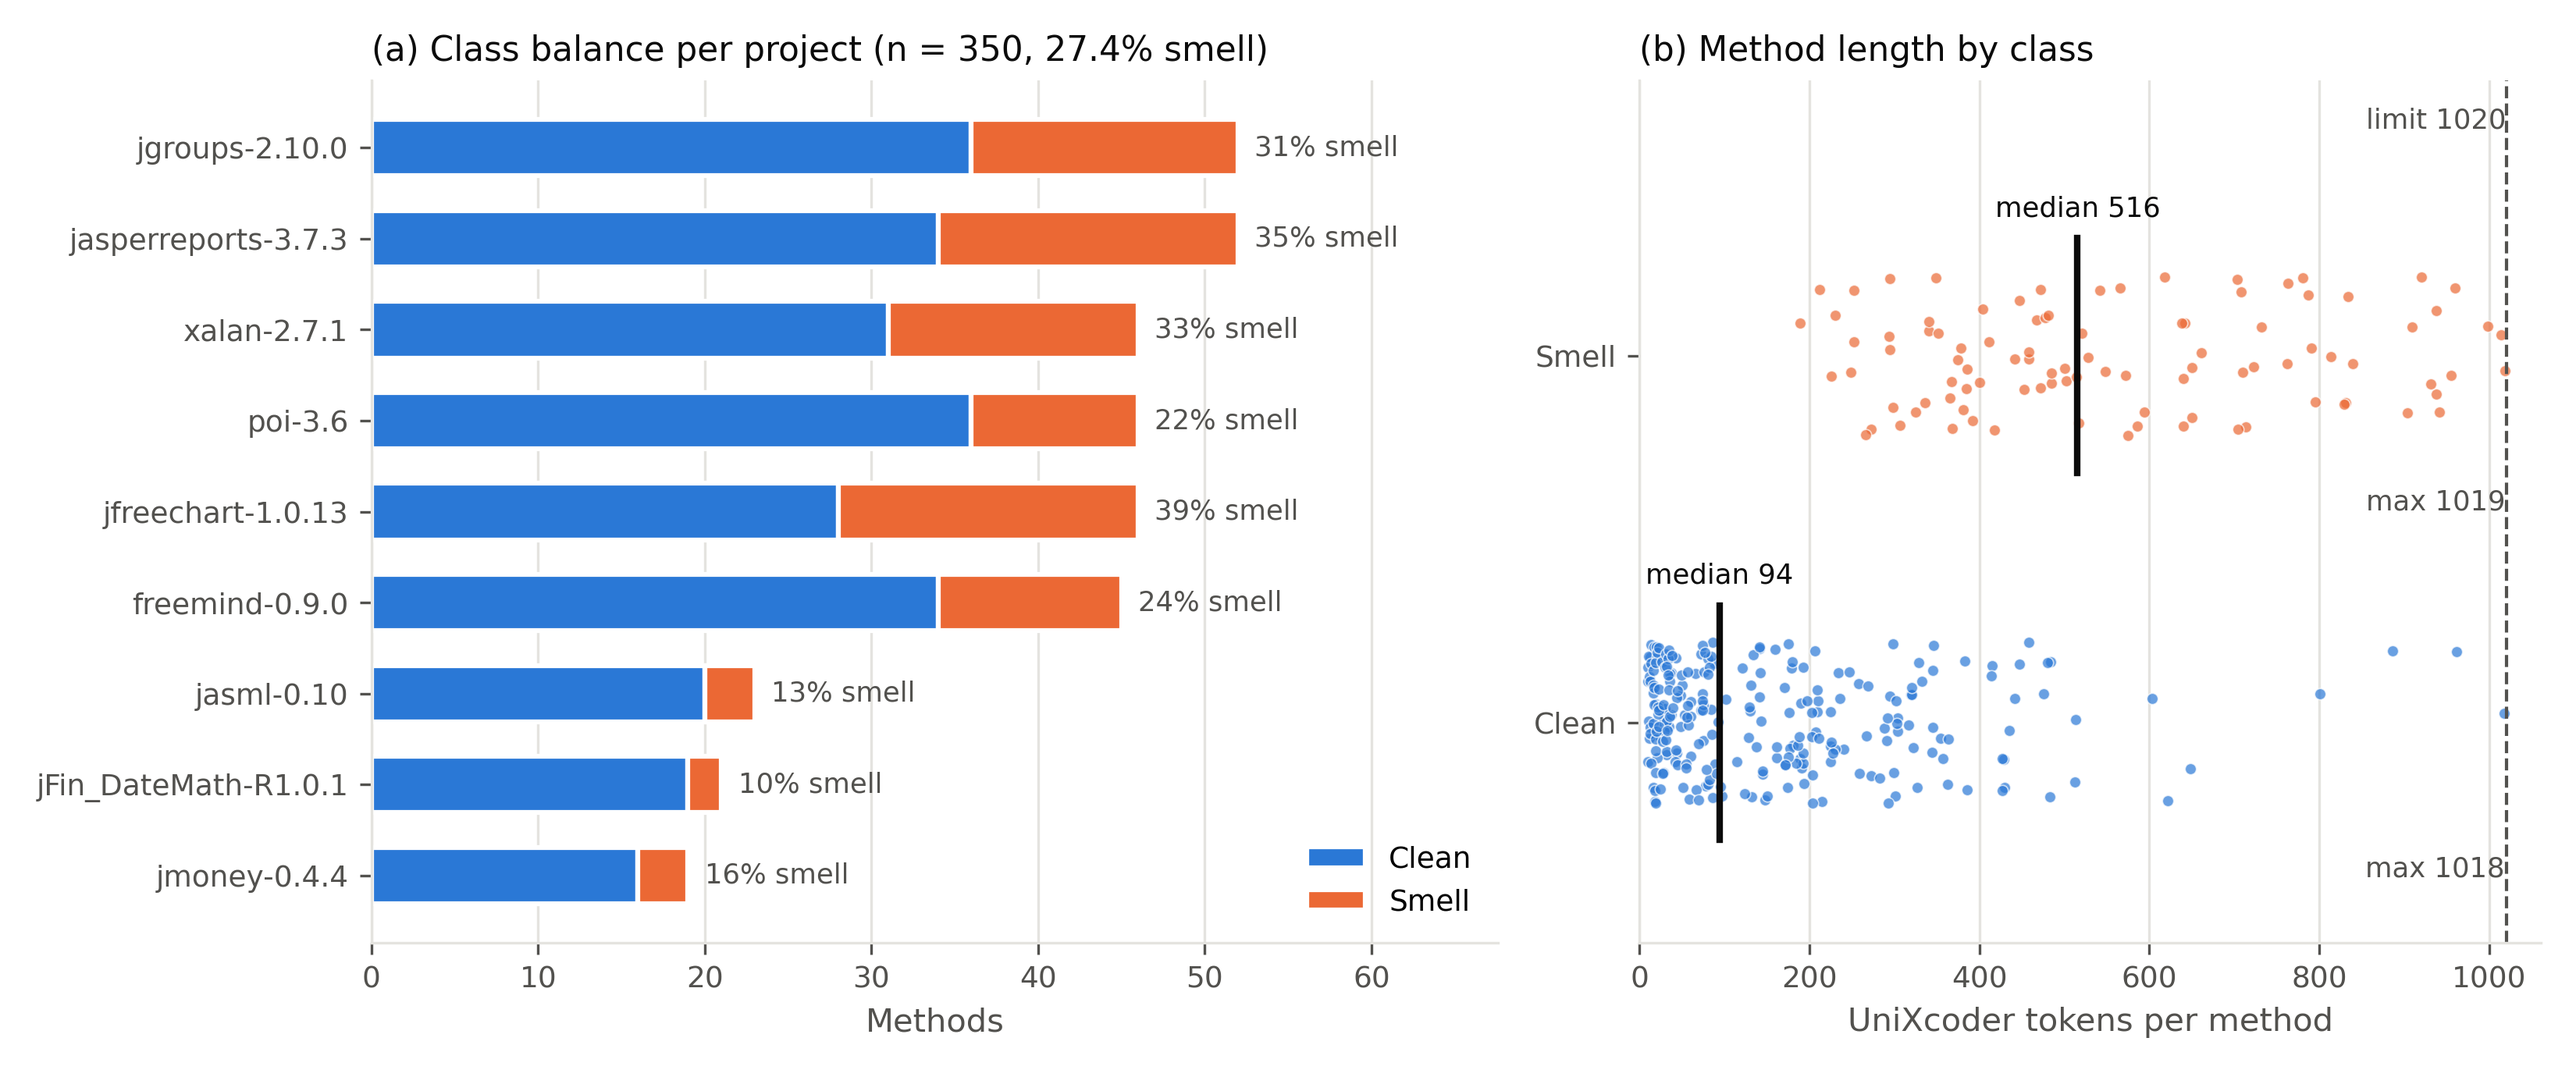
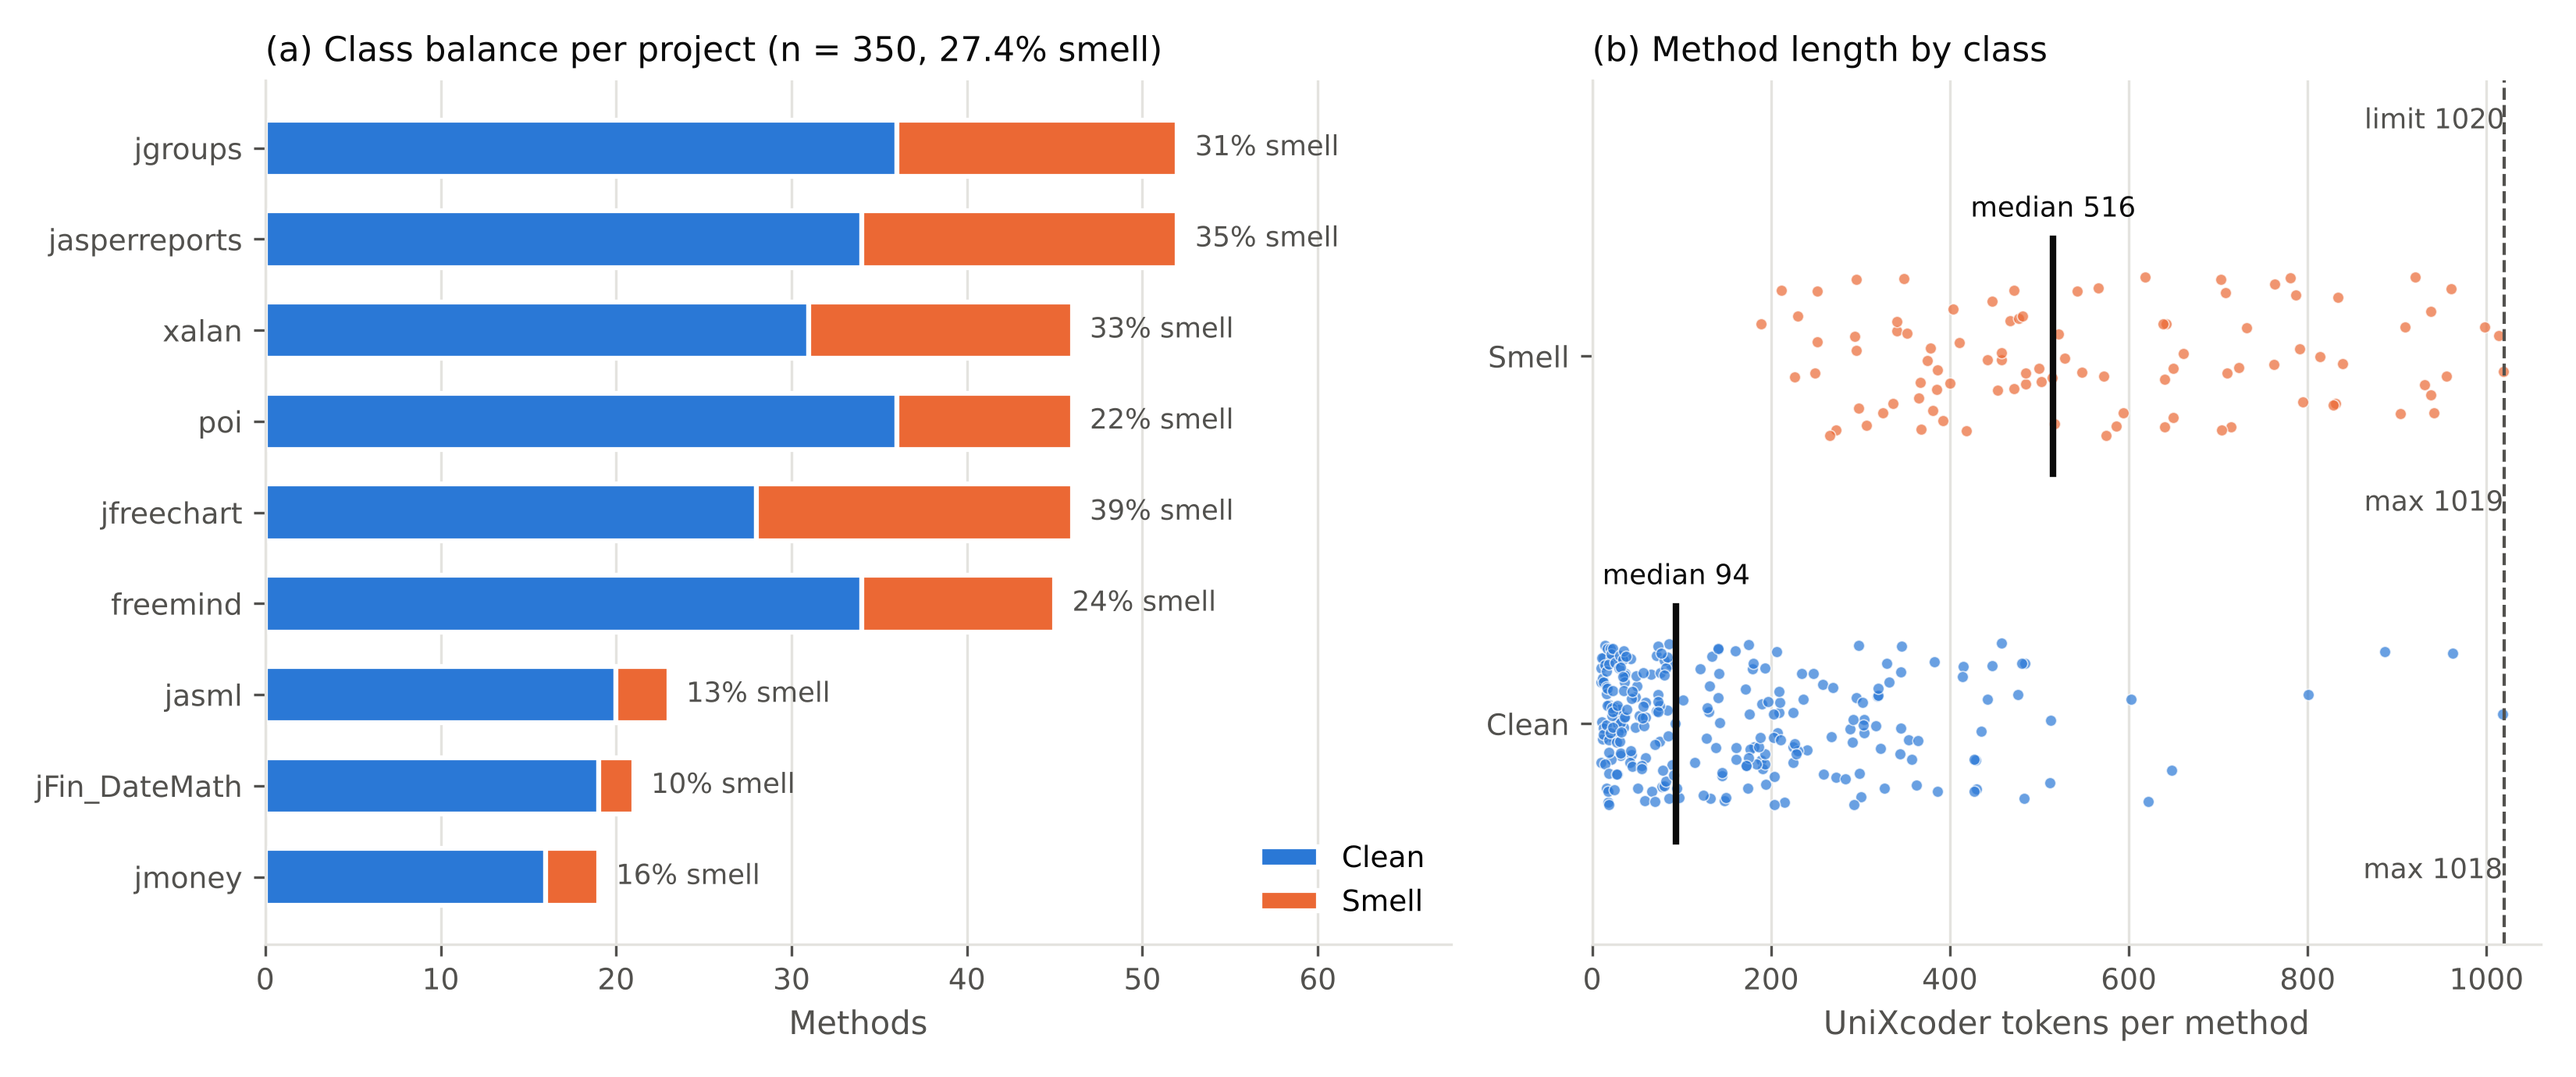
Drop the version from project names in the dataset figure
Claude-Session: https://claude.ai/code/session_017rhwVyM5rhv5k17AN45Ux5

diff --git a/scripts/0_dataset_analysis.py b/scripts/0_dataset_analysis.py
@@ -149,7 +149,8 @@ def plot(stats, rows, tok_col, budget, out):
     fig, (ax1, ax2) = plt.subplots(1, 2, figsize=(11, 4.6), gridspec_kw={"width_ratios": [1.25, 1]})
 
     # (a) class balance per project, stacked because clean + smell = project total
-    names = [p["project"] for p in projects]
+    # Project name without its version, e.g. jfreechart-1.0.13 -> jfreechart
+    names = [p["project"].split("-")[0] for p in projects]
     clean = [p["clean"] for p in projects]
     smell = [p["smell"] for p in projects]
     ax1.barh(names, clean, color=CLEAN_COLOR, height=0.62, label="Clean", edgecolor="white", linewidth=1.5)
